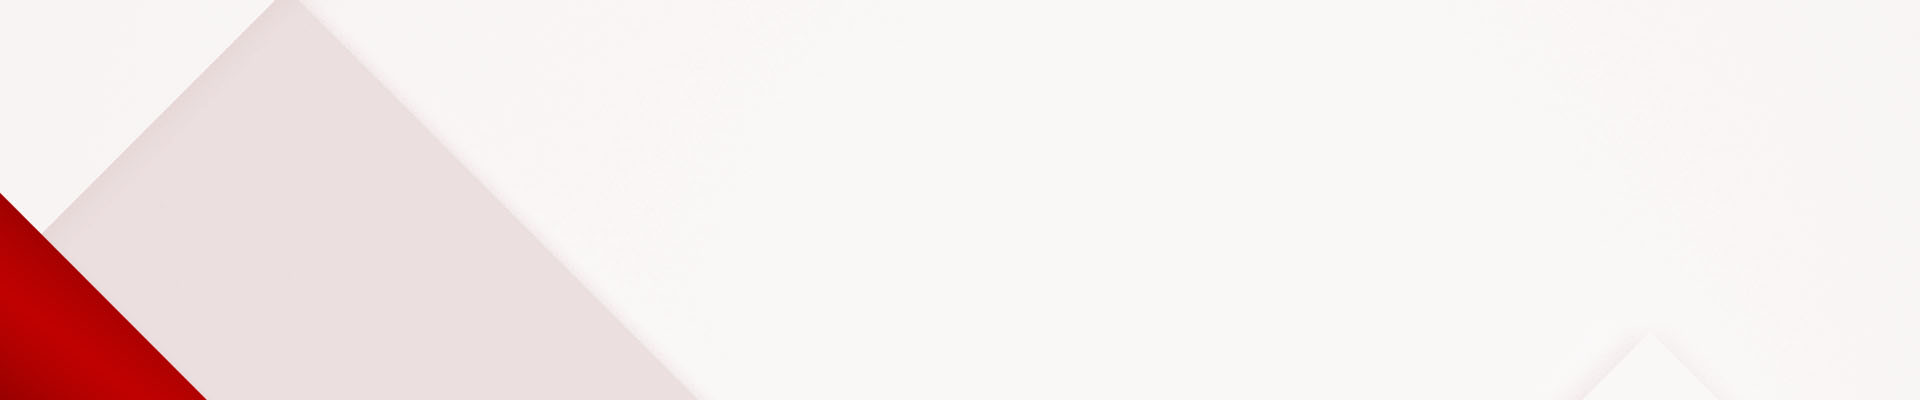
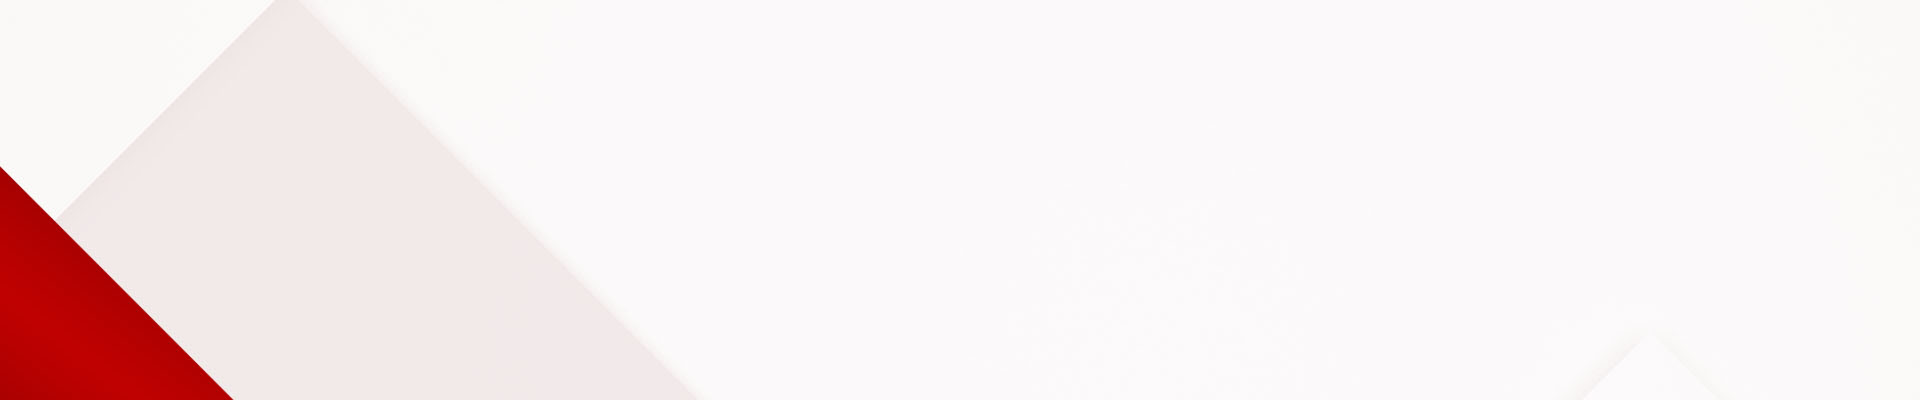
Changed bg details

Changed region(s): [[0.0, 0.42, 0.125, 1.0]]

diff --git a/CSS/index.css b/CSS/index.css
@@ -8,7 +8,7 @@ body {
     min-height: 100vh;
     flex-direction: column;
     font-family: "Trebuchet MS"!important;
-    background: url(../IMAGES/wallpapers/redStripes.jpg) top left;
+    background: url(../IMAGES/wallpapers/redStripes.jpg) center center;
     background-size: cover;
     background-color: #f4f3f3;
     /*
